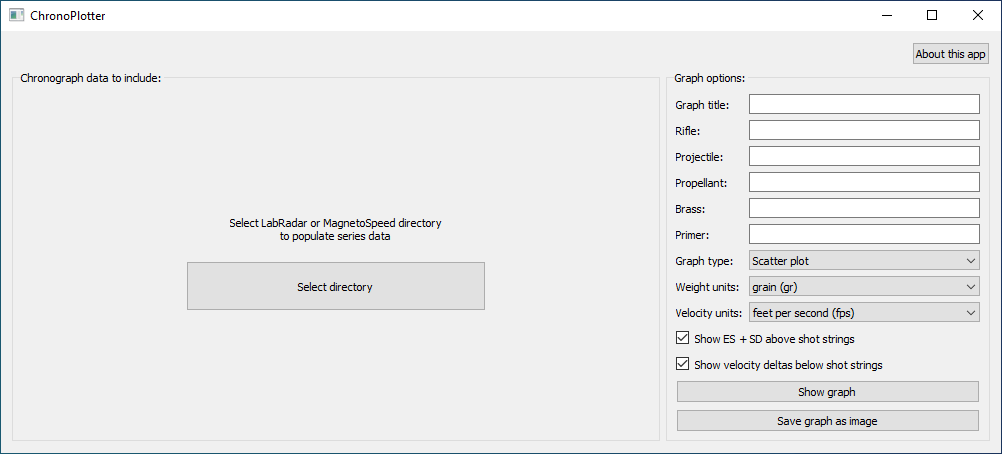
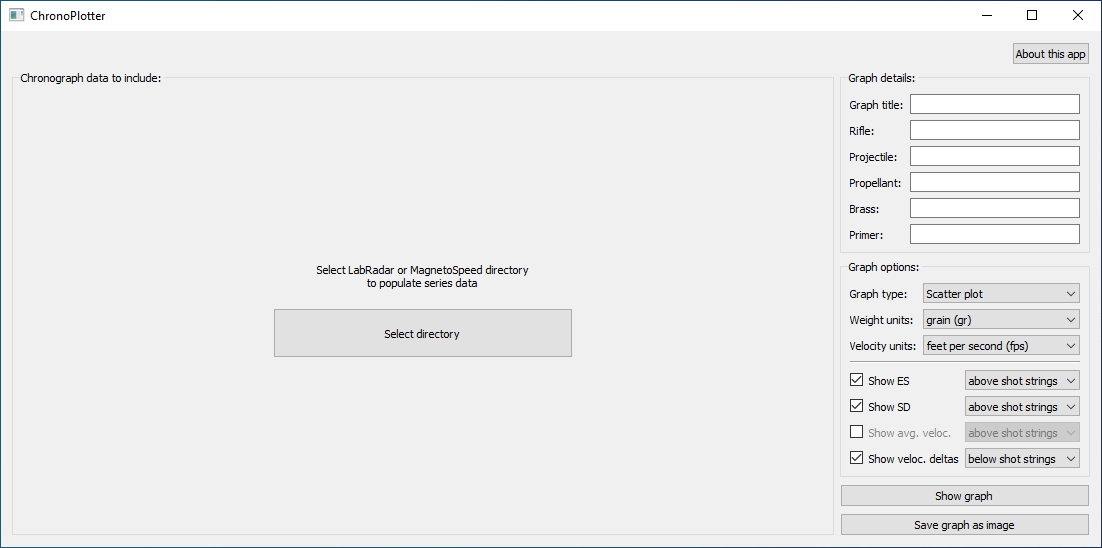
Updated readme and screenshots

diff --git a/README.md b/README.md
@@ -29,9 +29,13 @@ The program should now be populated with all of your recorded data:
 
 ![Populated series data](https://github.com/mncoppola/ChronoPlotter/blob/main/images/3.png?raw=true)
 
-Enter the charge weights for each series you want to include in the graph. Make sure to uncheck any series you don't want to include. To include details in the graph about the components being tested, additionally fill in the text fields on the right:
+Uncheck any series you don't want to include in the graph. Then enter a charge weight for each series, or click the `Auto-fill charge weights` button to automate the process:
 
-![Full details filled out](https://github.com/mncoppola/ChronoPlotter/blob/main/images/4.png?raw=true)
+![Auto-fill charge weights](https://github.com/mncoppola/ChronoPlotter/blob/main/images/4.png?raw=true)
+
+To include details in the graph about the components used in testing, additionally fill in the text fields on the right:
+
+![Full details filled out](https://github.com/mncoppola/ChronoPlotter/blob/main/images/5.png?raw=true)
 
 Clicking `Show graph` pops open a new window with a preview of the generated graph. **Note: This does not save your graph, only displays it.**
 
@@ -43,7 +47,7 @@ You can alternatively create a line chart with standard deviation error bars by 
 
 ![Line chart + SD](https://github.com/mncoppola/ChronoPlotter/blob/main/images/line.png?raw=true)
 
-By default, ChronoPlotter includes ES (Extreme Spread), SD (standard deviation), and the series-to-series difference in velocity for each series in the graph. You can remove these from the graph by unchecking the `Show ES + SD above shot strings` and `Show velocity deltas below shot strings` options.
+By default, ChronoPlotter includes ES (Extreme Spread), SD (standard deviation), and the series-to-series difference in velocity for each series in the graph. The average (mean) velocity for each series can also be included but is unchecked by default. You can add, remove, or change the location of these details in the graph under the `Graph options` section.
 
 Close the preview window, making sure not to close ChronoPlotter itself. Finally, click `Save graph as image` to save your graph as a .PNG, .SVG, or .PDF file.
 
